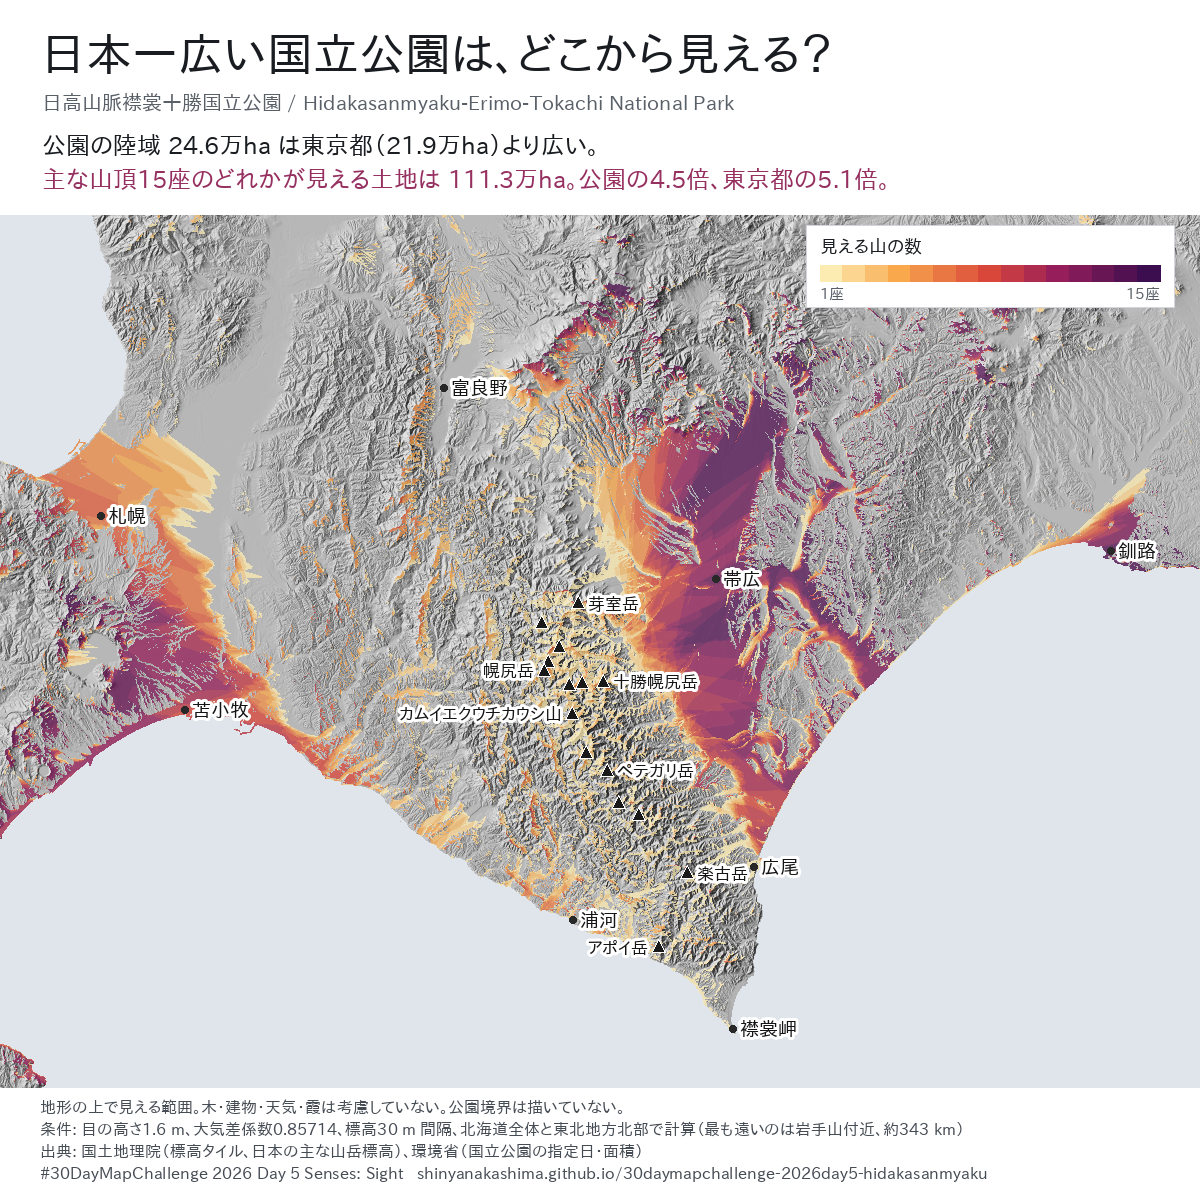
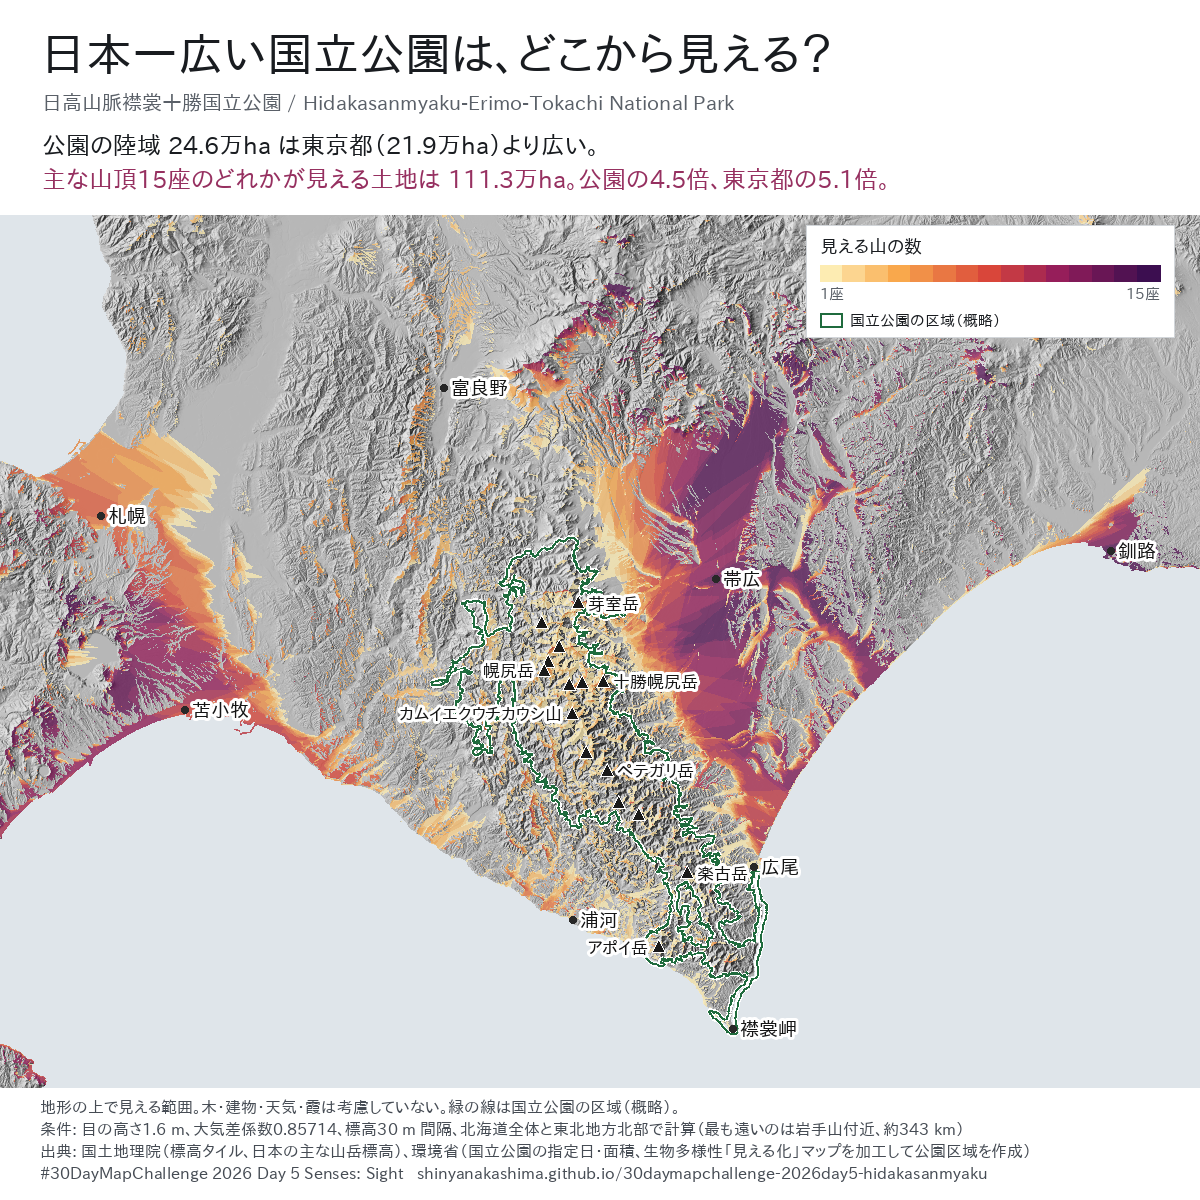
Add the national park boundary from the Ministry of the Environment Biodiversity Map

diff --git a/site/app.js b/site/app.js
@@ -36,7 +36,7 @@
       modeAll: '色: 見える山の数（全' + N + '座）',
       modePeak: (p, r) => `${p.name_ja}（${p.elev_m.toLocaleString()} m）が見える土地: ${ha(p.visible_ha)}（公園の${r}倍）`,
       back: '全体に戻る', pickAll: '全15座をまとめて表示',
-      to3d: '立体表示にする', to2d: '平面表示に戻す', opacity: '色の濃さ', rangeLbl: '計算範囲',
+      to3d: '立体表示にする', to2d: '平面表示に戻す', opacity: '色の濃さ', rangeLbl: '計算範囲', parkKey: '日高山脈襟裳十勝国立公園の区域（概略）',
       legendLo: '1座', legendHi: N + '座', single: '見える土地',
       tipNone: 'ここからは主な山頂が見えません', tipHead: n => `ここから見える山: ${n}座`,
       lang: 'English', ha: v => (v / 10000).toFixed(1) + '万ha',
@@ -56,7 +56,7 @@
 <li>立体表示: 同じ標高タイルから作った約110 m 間隔の標高を使い、高さを1.6倍に強調して表示</li>
 </ul>
 <h3>公園の区域</h3>
-<p>公園の区域境界は描いていません。OpenStreetMap には2024年の国立公園区域のデータが見つからず、環境省のGISデータも今回は取得できなかったためです。面積の比較は環境省資料の数値によります。</p>
+<p>緑の線は、環境省 生物多様性「見える化」マップの国立公園区域（原典: 環境省 EADAS 自然公園区域、令和6年6月25日告示の公園計画書・公園計画図・GISデータ）をもとに、地種区分をまとめて1つの区域にしたものです。原典は区域の概要を示すもので誤差を含みます（このデータでの面積は約25.4万ha）。面積の比較には環境省の公表値（陸域245,668 ha）を使っています。</p>
 <h3>使った山頂（見える土地の面積）</h3>
 <table>${peaks.map(p => `<tr><td>${p.name_ja}</td><td class="r">${p.elev_m.toLocaleString()} m</td><td class="r">${ha(p.visible_ha)}</td></tr>`).join('')}</table>
 <h3>出典</h3>
@@ -64,6 +64,7 @@
 <li>標高タイル（背景の陰影図と立体表示もこれから作成）、日本の主な山岳標高（2026年3月31日版）: 出典 国土地理院</li>
 <li>国立公園の指定日（2024年6月25日）・陸域面積（245,668 ha）: 環境省 報道発表資料、日高山脈襟裳十勝国立公園の指定概要</li>
 <li>東京都の面積（219,405 ha）: 国土地理院 全国都道府県市区町村別面積調</li>
+<li>公園の区域: 出典 環境省 生物多様性「見える化」マップ（https://www.biodiversitymap.env.go.jp/ ）を加工して作成（地種区分を統合し、線を単純化）</li>
 </ul>
 <p><a href="https://github.com/shinyanakashima/30daymapchallenge-2026day5-hidakasanmyaku">計算スクリプト（GitHub）</a></p>`
     },
@@ -77,7 +78,7 @@
       modeAll: `Colour: number of peaks visible (of ${N})`,
       modePeak: (p, r) => `Land that sees ${p.name_en} (${p.elev_m.toLocaleString()} m): ${ha(p.visible_ha)} (${r} times the park)`,
       back: 'Show all', pickAll: 'All 15 peaks combined',
-      to3d: 'Show in 3D', to2d: 'Back to 2D', opacity: 'Colour opacity', rangeLbl: 'Calculation extent',
+      to3d: 'Show in 3D', to2d: 'Back to 2D', opacity: 'Colour opacity', rangeLbl: 'Calculation extent', parkKey: 'Hidakasanmyaku-Erimo-Tokachi National Park (approximate)',
       legendLo: '1 peak', legendHi: N + ' peaks', single: 'Visible land',
       tipNone: 'No main peak visible from here', tipHead: n => `Peaks visible from here: ${n}`,
       lang: '日本語', ha: v => Math.round(v).toLocaleString('en') + ' ha',
@@ -97,7 +98,7 @@
 <li>3D view: elevation from the same tiles at about 110 m spacing, with heights exaggerated 1.6 times</li>
 </ul>
 <h3>Park boundary</h3>
-<p>The park boundary is not drawn. OpenStreetMap has no data for the 2024 national park area, and the Ministry of the Environment GIS data could not be obtained for this map. Area comparisons use the Ministry's published figures.</p>
+<p>The green line is the national park area from the Ministry of the Environment Biodiversity Map (original data: Ministry of the Environment EADAS natural park areas, based on the park plan and GIS data announced on 25 June 2024), with all zones merged into one area. The original data shows the outline only and contains errors (about 254,000 ha in this data). Area comparisons use the Ministry's published land area of 245,668 ha.</p>
 <h3>Peaks used (visible land area)</h3>
 <table>${peaks.map(p => `<tr><td>${p.name_en}<br><span style="color:#777">${p.name_ja}</span></td><td class="r">${p.elev_m.toLocaleString()} m</td><td class="r">${ha(p.visible_ha)}</td></tr>`).join('')}</table>
 <h3>Sources</h3>
@@ -105,6 +106,7 @@
 <li>Elevation tiles (also used to make the background hillshade and the 3D terrain) and major mountain elevations of Japan (31 March 2026 edition): Geospatial Information Authority of Japan (GSI)</li>
 <li>Designation date (25 June 2024) and land area (245,668 ha): Ministry of the Environment, Japan</li>
 <li>Area of Tokyo (219,405 ha): GSI, area statistics by prefecture and municipality</li>
+<li>Park boundary: created by editing data from the Ministry of the Environment Biodiversity Map (https://www.biodiversitymap.env.go.jp/), with zones merged and lines simplified</li>
 </ul>
 <p><a href="https://github.com/shinyanakashima/30daymapchallenge-2026day5-hidakasanmyaku">Scripts on GitHub</a></p>`
     }
@@ -127,15 +129,19 @@
         count: { type: 'raster', tiles: ['tiles/count/{z}/{x}/{y}.png'], tileSize: 256, minzoom: layers.countZoom[0], maxzoom: layers.countZoom[1], bounds: layers.bounds },
         peak: { type: 'image', url: `data/peak_${peaks[0].id}.png`, coordinates: layers.coordinates },
         range: { type: 'geojson', data: { type: 'Feature', properties: {}, geometry: { type: 'LineString', coordinates: [...layers.coordinates, layers.coordinates[0]] } } },
+        park: { type: 'geojson', data: 'data/park.geojson' },
         sight: { type: 'geojson', data: { type: 'FeatureCollection', features: [] } },
         dem: { type: 'raster-dem', tiles: ['tiles/dem/{z}/{x}/{y}.png'], encoding: 'terrarium', tileSize: 256, minzoom: 6, maxzoom: 10, bounds: layers.bounds }
       },
       layers: [
         { id: 'bg', type: 'background', paint: { 'background-color': '#dfe5ea' } },
         { id: 'hs', type: 'raster', source: 'hs', paint: { 'raster-opacity': 1 } },
+        { id: 'park-fill', type: 'fill', source: 'park', paint: { 'fill-color': '#2f7a4b', 'fill-opacity': 0.12 } },
         { id: 'vis-count', type: 'raster', source: 'count', paint: { 'raster-opacity': 0.7, 'raster-resampling': 'nearest', 'raster-fade-duration': 0 } },
         { id: 'vis-peak', type: 'raster', source: 'peak', layout: { visibility: 'none' }, paint: { 'raster-opacity': 0.7, 'raster-resampling': 'nearest', 'raster-fade-duration': 0 } },
         { id: 'range', type: 'line', source: 'range', paint: { 'line-color': '#5b6168', 'line-width': 1.2, 'line-dasharray': [4, 3] } },
+        { id: 'park-casing', type: 'line', source: 'park', paint: { 'line-color': '#ffffff', 'line-width': 3.4, 'line-opacity': 0.8 } },
+        { id: 'park-line', type: 'line', source: 'park', paint: { 'line-color': '#1f6b3d', 'line-width': 1.6 } },
         { id: 'sight-casing', type: 'line', source: 'sight', filter: ['==', ['geometry-type'], 'LineString'],
           layout: { 'line-cap': 'round' }, paint: { 'line-color': '#ffffff', 'line-width': 3.2, 'line-opacity': 0.75 } },
         { id: 'sight-line', type: 'line', source: 'sight', filter: ['==', ['geometry-type'], 'LineString'],
@@ -288,6 +294,7 @@
     render();
   }
 
+  const parkKey = t => `<div class="single park-key"><span class="pk"></span>${t.parkKey}</div>`;
   function render() {
     const t = T[lang];
     document.documentElement.lang = lang;
@@ -306,11 +313,11 @@
       mode.textContent = t.modePeak(p, (p.visible_ha / stats.park_ha).toFixed(1));
       const b = document.createElement('button'); b.type = 'button'; b.textContent = t.back; b.onclick = () => select(null);
       mode.appendChild(b);
-      lg.innerHTML = `<div class="single"><span class="sw"></span>${t.single}</div>`;
+      lg.innerHTML = `<div class="single"><span class="sw"></span>${t.single}</div>` + parkKey(t);
     } else {
       mode.textContent = t.modeAll;
       lg.innerHTML = '<div class="bar">' + Object.values(layers.colors).map(c => `<span style="background:${c}"></span>`).join('') +
-        `</div><div class="ticks"><span>${t.legendLo}</span><span>${t.legendHi}</span></div>`;
+        `</div><div class="ticks"><span>${t.legendLo}</span><span>${t.legendHi}</span></div>` + parkKey(t);
     }
     const pick = document.getElementById('pick');
     pick.innerHTML = `<option value="">${t.pickAll}</option>` + peaks.map(p =>

diff --git a/site/style.css b/site/style.css
@@ -34,6 +34,8 @@ h1 { font-size: 20px; line-height: 1.35; margin: 6px 0 2px; }
 #legend .bar span { flex: 1; }
 #legend .ticks { display: flex; justify-content: space-between; font-size: 11px; color: var(--muted); }
 #legend .single { display: flex; align-items: center; gap: 6px; font-size: 12px; }
+#legend .park-key { margin-top: 6px; }
+#legend .pk { width: 16px; height: 10px; border: 2px solid #1f6b3d; background: rgba(47,122,75,.12); display: inline-block; }
 #legend .sw { width: 14px; height: 14px; background: #c8283c; display: inline-block; }
 #view { display: flex; align-items: center; gap: 12px; flex-wrap: wrap; margin-top: 8px; }
 #btn3d { font: inherit; font-size: 12px; border: 1px solid var(--accent); color: var(--accent); background: #fff; border-radius: 4px; padding: 3px 10px; cursor: pointer; }

diff --git a/scripts/07_park_boundary.py b/scripts/07_park_boundary.py
@@ -1,0 +1,60 @@
+"""日高山脈襟裳十勝国立公園の区域を環境省 生物多様性「見える化」マップから取得し、1つの区域にまとめる。
+
+原典: 環境省 EADAS 自然公園区域（環境省自然環境局国立公園課提供の公園計画書・公園計画図・GISデータ、令和6年6月25日告示）
+出力: site/data/park.geojson（区域の外形, 経緯度）, data/park.json（面積など）
+"""
+import json
+import os
+
+import numpy as np
+import requests
+import shapely
+from pyproj import Transformer
+from shapely.geometry import mapping, shape
+from shapely.ops import unary_union
+
+ROOT = os.path.join(os.path.dirname(__file__), "..")
+URL = "https://biodiversitymap.env.go.jp/server/rest/services/Hosted/F_02_02_02/FeatureServer/2020200/query"
+NAME = "日高山脈襟裳十勝"
+
+
+def main():
+    feats, offset = [], 0
+    while True:
+        r = requests.get(URL, params={"where": f"名称='{NAME}'", "outFields": "objectid,名称,地域区,sa10_1_008,sa10_1_009",
+                                      "returnGeometry": "true", "outSR": 4326, "f": "geojson",
+                                      "resultOffset": offset, "resultRecordCount": 1000}, timeout=300)
+        r.raise_for_status()
+        fs = r.json()["features"]
+        feats += fs
+        if len(fs) < 1000:
+            break
+        offset += len(fs)
+    print(len(feats), "polygons")
+    t_utm = Transformer.from_crs("EPSG:4326", "EPSG:6690", always_xy=True)
+    t_ll = Transformer.from_crs("EPSG:6690", "EPSG:4326", always_xy=True)
+    to_utm = lambda c: np.column_stack(t_utm.transform(c[:, 0], c[:, 1]))
+    to_ll = lambda c: np.column_stack(t_ll.transform(c[:, 0], c[:, 1]))
+    transform = lambda fn, g: shapely.transform(g, fn)
+    geoms = [transform(to_utm, shape(f["geometry"]).buffer(0)) for f in feats]
+    park = unary_union(geoms)
+    area_ha = park.area / 10000
+    by_zone = {}
+    for f, g in zip(feats, geoms):
+        z = f["properties"]["地域区"]
+        by_zone[z] = by_zone.get(z, 0) + g.area / 10000
+    # Web 表示用に 20 m で単純化
+    web = transform(to_ll, park.simplify(20, preserve_topology=True))
+    json.dump({"type": "FeatureCollection", "features": [{"type": "Feature", "properties": {"name": NAME},
+                                                          "geometry": mapping(web)}]},
+              open(os.path.join(ROOT, "site", "data", "park.geojson"), "w", encoding="utf-8"), ensure_ascii=False,
+              separators=(",", ":"))
+    info = {"name": NAME, "polygons": len(feats), "gis_area_ha": round(area_ha),
+            "by_zone_ha": {k: round(v) for k, v in by_zone.items()},
+            "designated": feats[0]["properties"]["sa10_1_008"]}
+    json.dump(info, open(os.path.join(ROOT, "data", "park.json"), "w", encoding="utf-8"), ensure_ascii=False, indent=1)
+    print(info)
+
+
+if __name__ == "__main__":
+    main()

diff --git a/scripts/05_card.py b/scripts/05_card.py
@@ -92,6 +92,20 @@ def main():
     def halo(xy, text, font, fill=(20, 20, 20), anchor="la"):
         d.text(xy, text, font=font, fill=fill, anchor=anchor, stroke_width=3, stroke_fill=(255, 255, 255))
 
+    # 国立公園の区域（概略）
+    park = json.load(open(os.path.join(ROOT, "site", "data", "park.geojson"), encoding="utf-8"))
+    rings = []
+    for feat in park["features"]:
+        g = feat["geometry"]
+        polys = g["coordinates"] if g["type"] == "MultiPolygon" else [g["coordinates"]]
+        for poly in polys:
+            for ring in poly:
+                rings.append([px(lon, lat) for lon, lat in ring])
+    for ring in rings:
+        d.line(ring, fill=(255, 255, 255), width=5, joint="curve")
+    for ring in rings:
+        d.line(ring, fill=(31, 107, 61), width=2, joint="curve")
+
     for name, lon, lat in PLACES:
         x, y = px(lon, lat)
         if y < HEAD + 15:
@@ -117,20 +131,22 @@ def main():
 
     # legend
     lx, ly, w = 820, HEAD + 22, 340
-    d.rectangle((lx - 14, ly - 12, lx + w + 14, ly + 70), fill=(255, 255, 255), outline=(210, 214, 218))
+    d.rectangle((lx - 14, ly - 12, lx + w + 14, ly + 100), fill=(255, 255, 255), outline=(210, 214, 218))
     d.text((lx, ly), "見える山の数", font=f(18), fill=(25, 28, 32))
     for k in range(1, n + 1):
         x = lx + (k - 1) * w / n
         d.rectangle((x, ly + 28, lx + k * w / n, ly + 44), fill=ramp(k))
     d.text((lx, ly + 48), "1座", font=f(15), fill=(90, 96, 104))
     d.text((lx + w, ly + 48), f"{n}座", font=f(15), fill=(90, 96, 104), anchor="ra")
+    d.rectangle((lx, ly + 76, lx + 22, ly + 90), fill=(255, 255, 255), outline=(31, 107, 61), width=2)
+    d.text((lx + 30, ly + 83), "国立公園の区域（概略）", font=f(15), fill=(25, 28, 32), anchor="lm")
 
     # footer
     far = max(p["farthest_km"] for p in stats["peaks"])
     lines = [
-        "地形の上で見える範囲。木・建物・天気・霞は考慮していない。公園境界は描いていない。",
+        "地形の上で見える範囲。木・建物・天気・霞は考慮していない。緑の線は国立公園の区域（概略）。",
         f"条件: 目の高さ1.6 m、大気差係数0.85714、標高30 m 間隔、北海道全体と東北地方北部で計算（最も遠いのは岩手山付近、約{far:.0f} km）",
-        "出典: 国土地理院（標高タイル、日本の主な山岳標高）、環境省（国立公園の指定日・面積）",
+        "出典: 国土地理院（標高タイル、日本の主な山岳標高）、環境省（国立公園の指定日・面積、生物多様性「見える化」マップを加工して公園区域を作成）",
         "#30DayMapChallenge 2026 Day 5 Senses: Sight   shinyanakashima.github.io/30daymapchallenge-2026day5-hidakasanmyaku",
     ]
     fy = SIZE - 22 * len(lines) - 14

diff --git a/README.md b/README.md
@@ -36,7 +36,7 @@ SNS投稿用の画像: [site/card.png](site/card.png)
 ## 注記
 
 - 標高データには木や建物が含まれていないため、「地形の上で見える範囲」です。森林や建物による遮り、天気や霞は考慮していません。
-- 公園の区域境界は描いていません。OpenStreetMap には2024年の国立公園区域のデータが見つからず（`boundary=national_park` / `boundary=protected_area` を確認）、環境省 生物多様性センターのGISデータ（gis.biodic.go.jp）も今回の作業環境から取得できなかったためです。
+- 緑の線は公園の区域（概略）です。環境省 生物多様性「見える化」マップの国立公園区域（原典: 環境省 EADAS 自然公園区域。令和6年6月25日告示の公園計画書・公園計画図・GISデータをもとに作成されたもの）から、日高山脈襟裳十勝国立公園の235区画を取得し、地種区分をまとめて1つの区域にしました。原典は区域の概要を示すもので誤差を含みます。このデータでの面積は約254,392 haで、面積の比較には環境省の公表値（陸域245,668 ha）を使っています。
 - 山の英語名は、環境省の英語資料で使われている表記（Mount Apoi）に合わせ、ほかの山も同じ形式で国土地理院の読みから表記しました。
 
 ## 計算の条件
@@ -85,6 +85,7 @@ SNS投稿用の画像: [site/card.png](site/card.png)
   - https://www.env.go.jp/en/press/111250.html
   - https://www.env.go.jp/content/000233127.pdf（日高山脈襟裳十勝国立公園の指定概要）
 - 東京都の面積: 国土地理院 全国都道府県市区町村別面積調
+- 公園の区域: 出典 環境省 生物多様性「見える化」マップ（https://www.biodiversitymap.env.go.jp/ ）を加工して作成（地種区分を統合し、線を単純化）。利用規約は政府標準利用規約（第2.0版）準拠
 - 地図ライブラリ: MapLibre GL JS
 
 ## 再現手順
@@ -112,11 +113,15 @@ sh scripts/04_hillshade_tiles.sh
 ```
 
 ```bash
-python3 scripts/05_card.py
+python3 scripts/06_terrain_tiles.py
 ```
 
 ```bash
-python3 scripts/06_terrain_tiles.py
+python3 scripts/07_park_boundary.py
+```
+
+```bash
+python3 scripts/05_card.py
 ```
 
 | スクリプト | 内容 |
@@ -125,8 +130,9 @@ python3 scripts/06_terrain_tiles.py
 | `02_viewshed.py` | 30 m 格子に変換し、山頂ごとの可視領域、ビット合成、見える山の数、面積集計、範囲の端の確認（`data/stats.json`） |
 | `03_export_web.py` | Web 表示用のタイル（`site/tiles/count/`、`site/tiles/mask/`）と画像（`site/data/`）を書き出す |
 | `04_hillshade_tiles.sh` | 背景の陰影図タイル（`site/tiles/hs/`）を作る |
-| `05_card.py` | SNS 投稿用の画像（`site/card.png`）を作る |
+| `05_card.py` | SNS 投稿用の画像（`site/card.png`）を作る（`07_park_boundary.py` の後に実行） |
 | `06_terrain_tiles.py` | 立体表示用の標高タイル（Terrarium 形式、`site/tiles/dem/`、ズーム6〜10）を作る |
+| `07_park_boundary.py` | 公園の区域を取得して1つにまとめる（`site/data/park.geojson`、`data/park.json`） |
 
 中間ファイルは `work/` に置かれ、リポジトリには含めていません。公開しているのは計算済みの画像とタイルだけで、ブラウザでは可視領域の計算をしていません。
 
